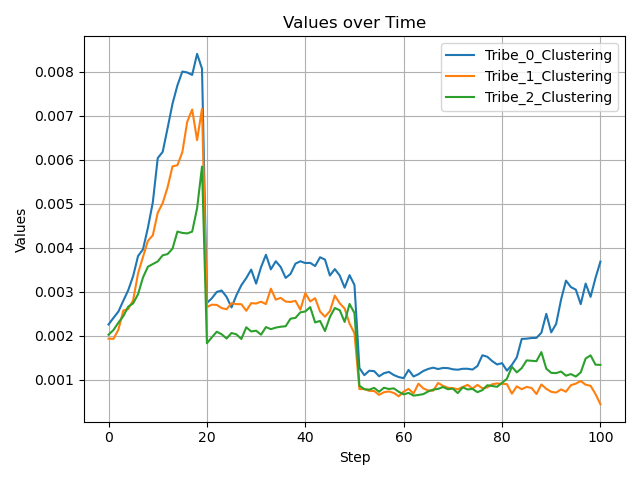
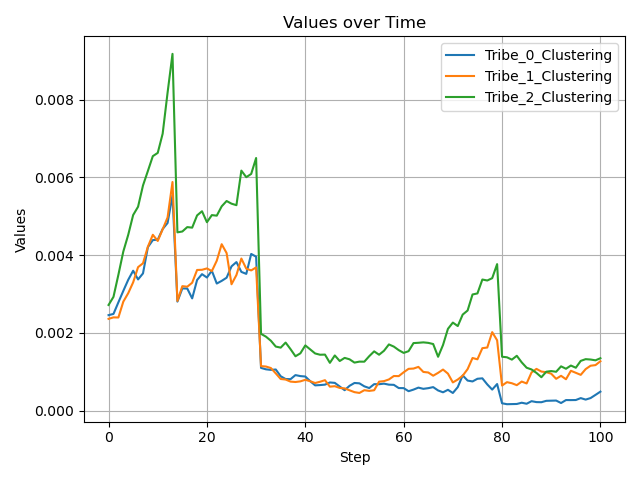
adding spice threshold slider

diff --git a/scripts/model.py b/scripts/model.py
@@ -35,7 +35,7 @@ def gen_river(width, height):
 class DuneModel(ms.Model):
     verbose = MONITOR
 
-    def __init__(self, experiment_name: str, width: int, height: int, n_tribes: int, n_agents: int, n_heaps: int, vision_radius: int, step_count: int, alpha: float, trade_percentage: float):
+    def __init__(self, experiment_name: str, width: int, height: int, n_tribes: int, n_agents: int, n_heaps: int, vision_radius: int, step_count: int, alpha: float, trade_percentage: float, spice_threshold: int):
         super().__init__()
         self.experiment_name = experiment_name
         self.width = width
@@ -51,7 +51,7 @@ class DuneModel(ms.Model):
         self.current_step = 0
         self.alpha = alpha
         self.trade_percentage = trade_percentage
-        self.spice_threshold = 500
+        self.spice_threshold = spice_threshold
 
         self.trades_per_tribe = {tribe_id: 0 for tribe_id in range(n_tribes)}
         self.schedule = ms.time.RandomActivationByType(self)

diff --git a/scripts/server.py b/scripts/server.py
@@ -18,6 +18,7 @@ model_params = {
     "step_count": 100,
     "alpha": ms.visualization.Slider("Fighting cost", 0.5, 0.0, 1.0, 0.1),
     "trade_percentage": ms.visualization.Slider("Trade Percentage", 0.5, 0.0, 1.0, 0.1),
+    "spice_threshold": ms.visualization.Slider("Spice Threshold", 500, 0, 1000, 50),
 }
 
 
